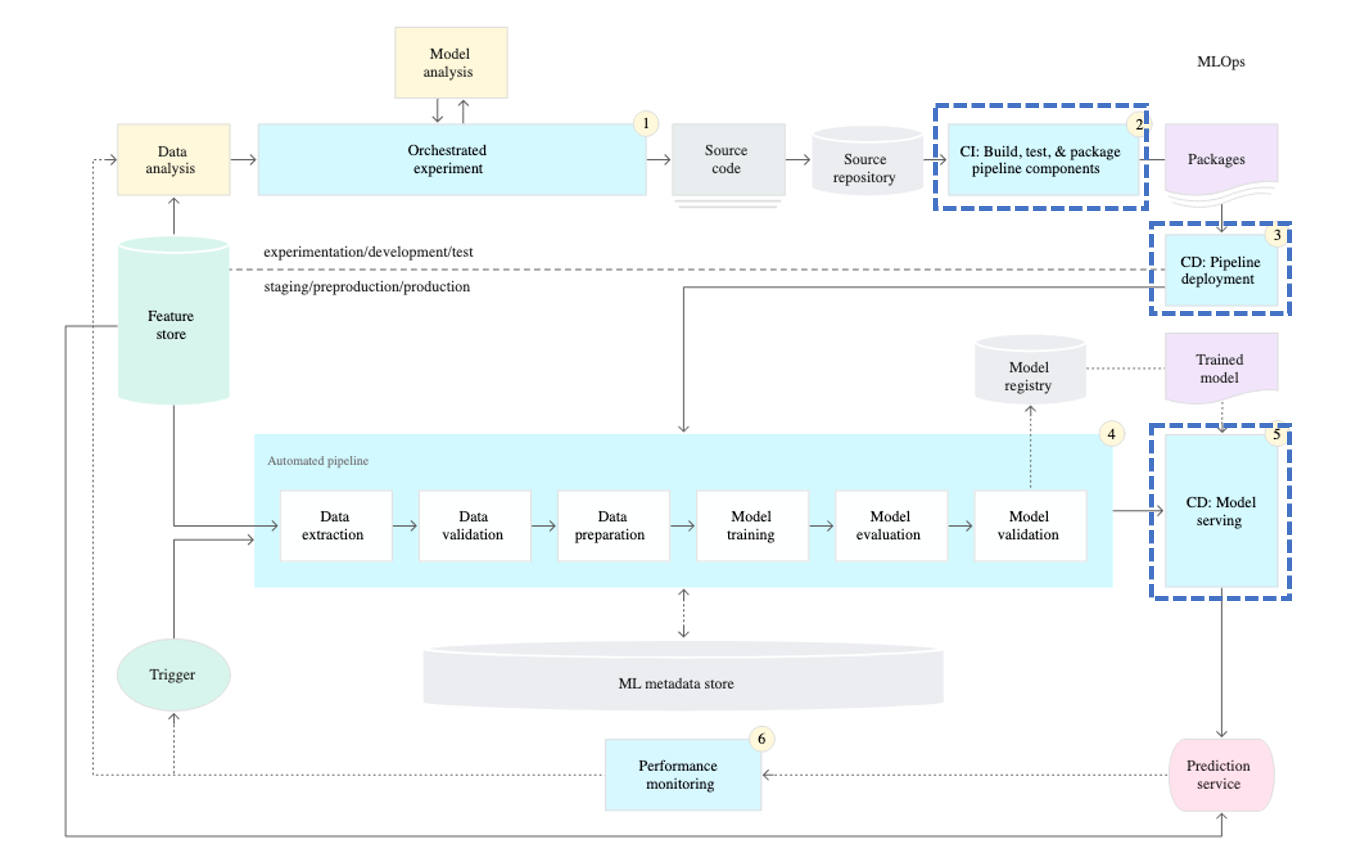
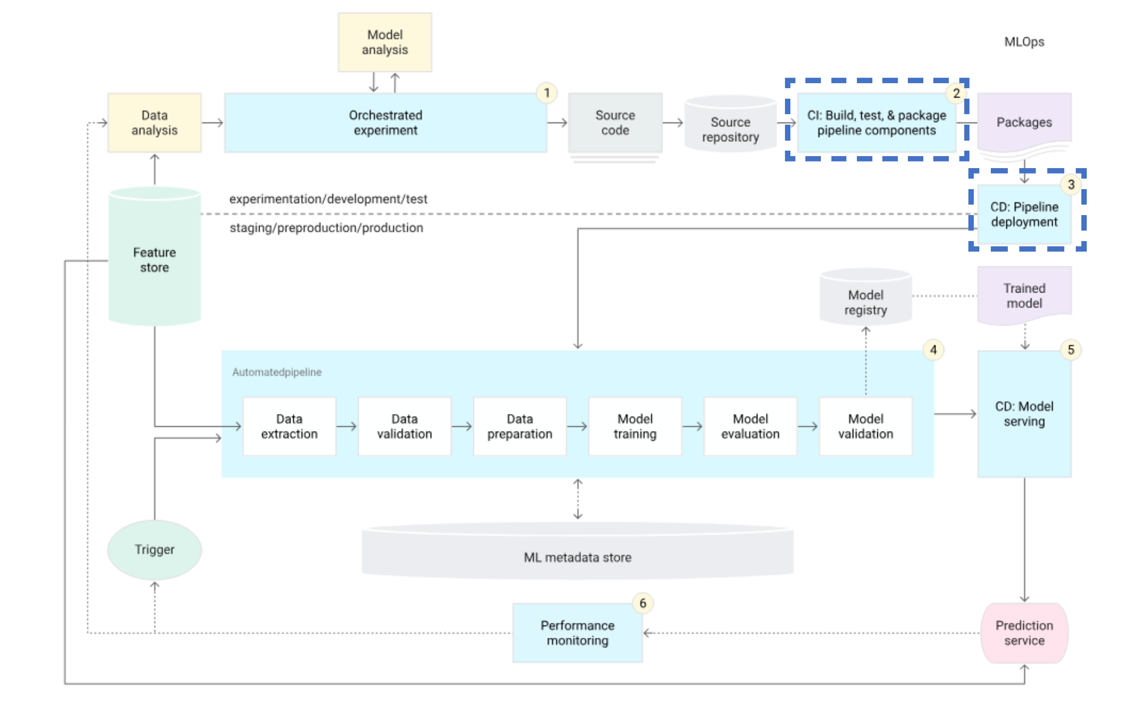
2. Levels of MLOps 문서수정  (#124)
* 기존 Google MLOps level 1,2 이미지 수정

* Google MLOps level 1,2 설명 수정(Model serving 관련)

Changed region(s): [[0.0307, 0.0, 0.9509, 0.9791], [0.8896, 0.0306, 0.9202, 0.0918], [0.5215, 0.153, 0.5521, 0.2142]]

diff --git a/i18n/en/docusaurus-plugin-content-docs/current/introduction/levels.md b/i18n/en/docusaurus-plugin-content-docs/current/introduction/levels.md
@@ -4,7 +4,7 @@ description: "Levels of MLOps"
 sidebar_position: 2
 date: 2021-12-03
 lastmod: 2022-03-05
-contributors: ["Jongseob Jeon"]
+contributors: ["Jongseob Jeon", "Chanmin Cho"]
 
 ---
 
@@ -76,6 +76,12 @@ There is a simple solution to address this blind spot. It involves checking whet
 
 To summarize, for Continuous Training (CT), both Auto Retrain and Auto Deploy are necessary. They complement each other's weaknesses and enable the model's performance to be maintained continuously.
 
+
+### Model Serving
+
+![level-1-modelserving](./img/level-1-modelserving.png)
+
+Machine learning pipelines in production continuously deploy the latest models based on new data to your prediction service. This process involves automatically deploying trained and validated models to online prediction services.
 
 
 ## Level 2: Automating the CI/CD Pipeline
